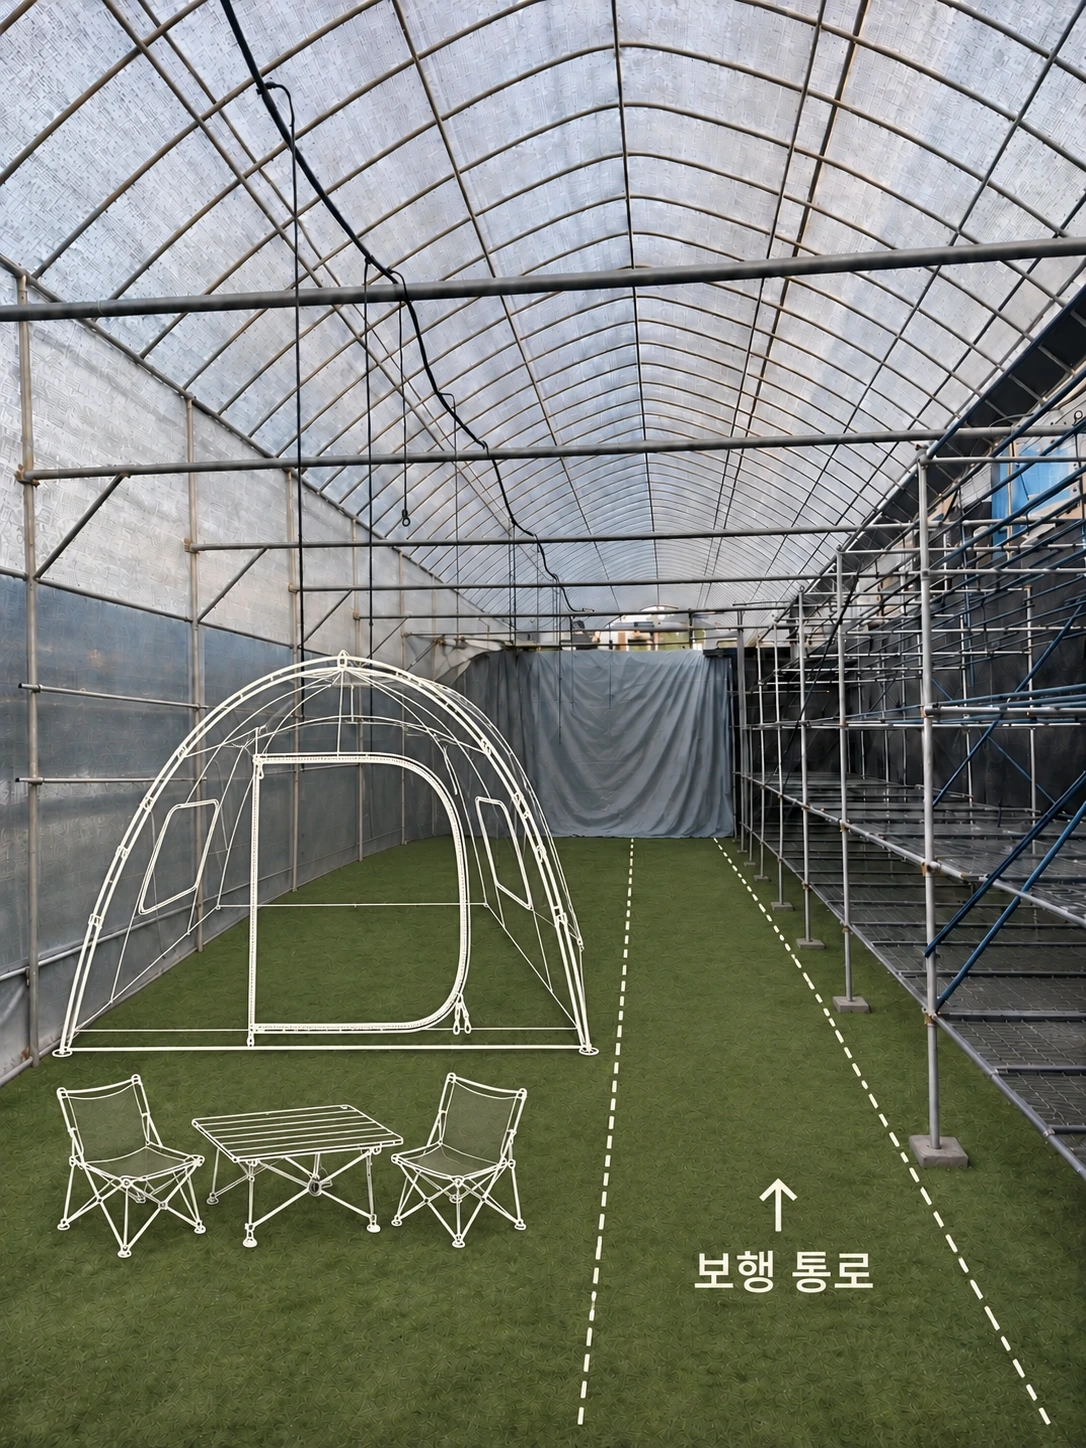
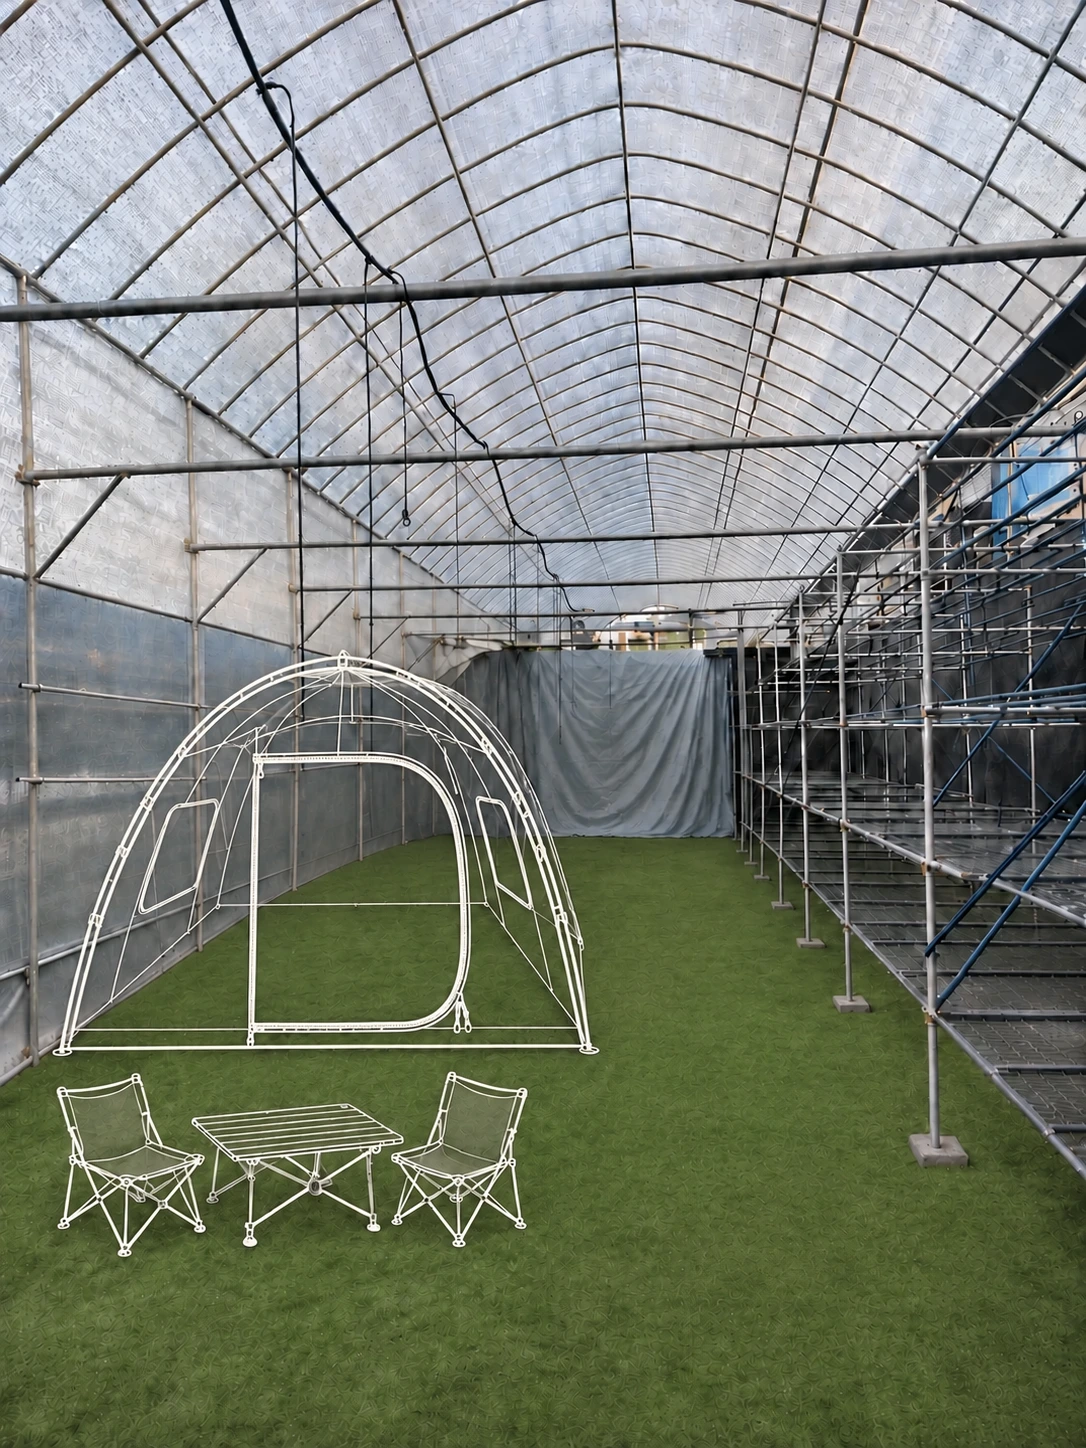
Remove walkway markings from the camping preview

diff --git a/index.html b/index.html
@@ -1,3 +1,3 @@
-<!doctype html><html lang="ko"><head><meta charset="utf-8"><meta name="viewport" content="width=device-width,initial-scale=1,viewport-fit=cover"><meta name="theme-color" content="#e9e2d6"><title>iHKG · 길드하우스</title><link rel="stylesheet" href="style.css"><link rel="stylesheet" href="camp-map.css?v=20261127-canvas"><link rel="stylesheet" href="shop.css?v=20261117-shop2"><link rel="stylesheet" href="signup.css?v=20261125-3"><link rel="stylesheet" href="event-layout.css?v=calendar1"></head><body><div id="app"><header><button id="mode" aria-label="지도와 목록 전환">☷</button><strong id="title">길드하우스 · Center Camp</strong><button id="filter" aria-label="필터">☷</button></header><main id="main"></main><div id="floating"><button id="fav" aria-label="즐겨찾기만 보기">♡</button></div><footer><nav aria-label="메인 메뉴"><button data-tab="map" aria-label="Map"><svg viewBox="0 0 24 24" aria-hidden="true"><path d="M3 5l6-2 6 2 6-2v16l-6 2-6-2-6 2ZM9 3v16M15 5v16"/></svg><small>Map</small></button><button data-tab="events" aria-label="Events"><svg viewBox="0 0 24 24" aria-hidden="true"><rect x="3" y="5" width="18" height="16" rx="2"/><path d="M7 3v4m10-4v4M3 10h18m-13 4h2m3 0h2m-7 3h2"/></svg><small>Events</small></button><button data-tab="shop" aria-label="Shop"><svg viewBox="0 0 24 24" aria-hidden="true"><path d="M5 8h14l2 13H3ZM8 9V6a4 4 0 0 1 8 0v3"/></svg><small>Shop</small></button><button data-tab="more" aria-label="More">•••<small>More</small></button></nav></footer></div><dialog id="detail"><div id="detailbody"></div></dialog><script src="site-places.js"></script><script src="shop.js?v=20261126-led1"></script><script src="camp-map.js?v=20261127-aisle"></script><script src="events-data.js?v=names7"></script><script src="signup-config.js?v=20261125-1"></script><script src="signup.js?v=20261125-confirm6"></script><script src="app.js?v=events-byline2"></script></body></html>
+<!doctype html><html lang="ko"><head><meta charset="utf-8"><meta name="viewport" content="width=device-width,initial-scale=1,viewport-fit=cover"><meta name="theme-color" content="#e9e2d6"><title>iHKG · 길드하우스</title><link rel="stylesheet" href="style.css"><link rel="stylesheet" href="camp-map.css?v=20261127-canvas"><link rel="stylesheet" href="shop.css?v=20261117-shop2"><link rel="stylesheet" href="signup.css?v=20261125-3"><link rel="stylesheet" href="event-layout.css?v=calendar1"></head><body><div id="app"><header><button id="mode" aria-label="지도와 목록 전환">☷</button><strong id="title">길드하우스 · Center Camp</strong><button id="filter" aria-label="필터">☷</button></header><main id="main"></main><div id="floating"><button id="fav" aria-label="즐겨찾기만 보기">♡</button></div><footer><nav aria-label="메인 메뉴"><button data-tab="map" aria-label="Map"><svg viewBox="0 0 24 24" aria-hidden="true"><path d="M3 5l6-2 6 2 6-2v16l-6 2-6-2-6 2ZM9 3v16M15 5v16"/></svg><small>Map</small></button><button data-tab="events" aria-label="Events"><svg viewBox="0 0 24 24" aria-hidden="true"><rect x="3" y="5" width="18" height="16" rx="2"/><path d="M7 3v4m10-4v4M3 10h18m-13 4h2m3 0h2m-7 3h2"/></svg><small>Events</small></button><button data-tab="shop" aria-label="Shop"><svg viewBox="0 0 24 24" aria-hidden="true"><path d="M5 8h14l2 13H3ZM8 9V6a4 4 0 0 1 8 0v3"/></svg><small>Shop</small></button><button data-tab="more" aria-label="More">•••<small>More</small></button></nav></footer></div><dialog id="detail"><div id="detailbody"></div></dialog><script src="site-places.js"></script><script src="shop.js?v=20261126-led1"></script><script src="camp-map.js?v=20261127-turf"></script><script src="events-data.js?v=names7"></script><script src="signup-config.js?v=20261125-1"></script><script src="signup.js?v=20261125-confirm6"></script><script src="app.js?v=events-byline2"></script></body></html>
 
 

diff --git a/camp-map.js b/camp-map.js
@@ -126,7 +126,7 @@ window.GuildMap = (() => {
     ...[3,2,1].map((n,i)=>({id:'sleep'+n,title:'침실 컨테이너 '+n,label:'침실 '+n,
       shape:`M${321+i*72} 48h72v93h-72Z`,x:357+i*72,y:100,files:[]})),
     {id:'lounge',title:'라운지',shape:'M89 183H189V242H261V357H89Z',x:157,y:284,icon:'music',files:['lounge-plan.webp?v=4'],preview:true},
-    {id:'indoor',title:'캠핑 존',shape:'M537 48H603V357H261V242H189V183H537Z',x:414,y:272,icon:'tent',files:['camping-plan.webp?v=4'],preview:true}
+    {id:'indoor',title:'캠핑 존',shape:'M537 48H603V357H261V242H189V183H537Z',x:414,y:272,icon:'tent',files:['camping-plan.webp?v=5'],preview:true}
   ];
   function insideIcon(id){
     const icons={
